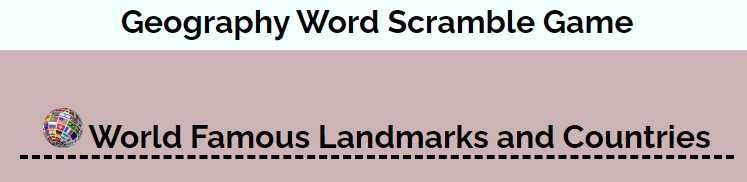
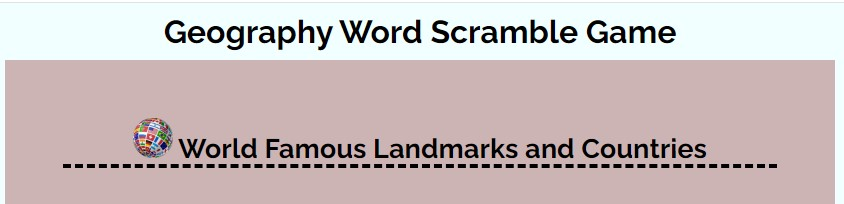
Add styling to header text and update README.md

Changed region(s): [[0.0, 0.2747, 1.0, 1.0], [0.1539, 0.0549, 0.8621, 0.2473]]

diff --git a/assets/js/script.js b/assets/js/script.js
@@ -60,7 +60,6 @@ function check() {
        
 }
 
-
 // Event listener for keydown Enter
 document.getElementById("input").addEventListener("keydown", function (event) {
     if (event.key === "Enter") {
@@ -87,14 +86,13 @@ function incrementIncorrectAnswer() {
 
 }
 
-
 //Refresh and show new record
 function refresh() {
 
     // keep input box empty when refresh
     document.getElementById("input").value = " ";
 
-    //Set cursor to input box  when page is loaded- setting the focus
+    //Set cursor to input box  when page is loaded - setting the focus
     document.getElementById("input").focus();
 
     //Create random selection of countries with corresponding hints

diff --git a/assets/css/style.css b/assets/css/style.css
@@ -1,5 +1,5 @@
 
- /* Asterisk wildcard selector to overide default styles added by the browser */
+ /* Asterisk wildcard selector to override default styles added by the browser */
  * {
     margin: 0;
     padding: 0;
@@ -13,9 +13,8 @@ body {
     text-align: center;
     display: flex; 
     flex-direction: column; 
-    justify-content: center; 
     align-items: center;
-    
+    justify-content: center; 
 }
 
 /* Heading */
@@ -46,7 +45,7 @@ h1 {
 }
 
 h2 {
-    font-size: 2rem;
+    font-size: 1.7rem;
     margin: auto;
     border-bottom: 4px dashed
 }

diff --git a/README.md b/README.md
@@ -50,7 +50,7 @@ function shuffle(str) {
 ```
 ![shuffle](./assets/readme-images/features-images/scrambledword.jpg)
 #### Hint
-This is used to display const hint with matches the displayed random shuffled selected country name.
+This is used to display hint which gives a clue to displayed selected shuffled country name.
 ```js
     let index = Math.floor(Math.random() * 41);
     let displayHint = hints[index]; 
@@ -159,10 +159,10 @@ Future improvement can be to add City, match city, country to hint and ensure ci
 
 ### Lighthouse Performance
 Confirmation that colors, font etc chosen are easy to read and accessible by running the site through lighthouse devtool
-|View Tested|   Outcome of the audit  |Soulution Applied|Screenshot of clear Validator output|
+|View Tested|   Outcome of the audit  |Solution Applied|Screenshot of clear Validator output|
 |:------------|:----------------|:-------------|:------------|
-|Mobile|![lighthouse-mobile](./assets/readme-images/lighthouse-test-images/mobile-lh.jpg)|No solution required perfomance is 99%|N/A|
-|Desktop|![lighthouse-desktop](./assets/readme-images/lighthouse-test-images/desktop-lh.jpg)|No solution required perfomance is 100%|N/A|
+|Mobile|![lighthouse-mobile](./assets/readme-images/lighthouse-test-images/mobile-lh.jpg)|No solution required performance is 99%|N/A|
+|Desktop|![lighthouse-desktop](./assets/readme-images/lighthouse-test-images/desktop-lh.jpg)|No solution required performance is 100%|N/A|
 
 ### Validation Testing
 * Used [JSHint](https://jshint.com/) to validate JavScript
@@ -182,7 +182,8 @@ Confirmed that site displays consistently in tested browser and functionalities 
 |![firefox](./assets/readme-images/browser-compatibility-test/firefox.png)|Check Answer button, Refresh button, Alerts, Word Shuffle, Hints|Layout, design, content display consistency |Intended appearance and responsiveness is good|
 |![edge](./assets/readme-images/browser-compatibility-test/edge.png)|Check Answer button, Refresh button, Alerts, Word Shuffle, Hints|Layout, design, content display consistency |Intended appearance and responsiveness is good|
 ### Screen sizes Responsiveness 
-![screen-size-responsivenes](./assets/readme-images/responsive-test/screen%20size%20responsiveness.jpg)
+![screen-size-responsiveness](./assets/readme-images/responsive-test/screen%20size%20responsiveness.jpg)
+Relative value 85% width is used to style the game-area, this is to ensure app is responsive on all devices without having to use media queries.
 |Device Tested|Site responsive >=700px |Site responsive <699px|Render as expected|
 |:------------:|:----------------:|:-------------:|:--------------:|
 |iPhone 12 Pro (Mobile)|NA|Good|Good 390px X 844px ![mobile](./assets/readme-images/responsive-test/mobile.jpg)|
@@ -199,7 +200,7 @@ Confirmed that site displays consistently in tested browser and functionalities 
 #### Bugs Resolved
 |Bug|   Description |Solution Applied|Result|
 |:------------|:----------------|:-------------|:------------|
-|White space on input box|Due to white space on input box correct answer was interpreted as incorrect answer, hence incorrect answer alert even when the answer is correct. ![bug](./assets/readme-images/bugs-images/bug-tr.jpg)|Used  trim() function to trim the white space on the input|Bug resolved ![bug-fix](./assets/readme-images/bugs-images/bug-fix.jpg)|
+|White space on input box|Due to white space on input box correct answer was interpreted as incorrect answer, hence incorrect answer alert even when the answer is correct. ![bug](./assets/readme-images/bugs-images/bug-tr.jpg)|Used  trim() function to remove the white space on the input|Bug resolved ![bug-fix](./assets/readme-images/bugs-images/bug-fix.jpg)|
 #### Bugs Unresolved
 No unresolved bugs
 ### Libraries
